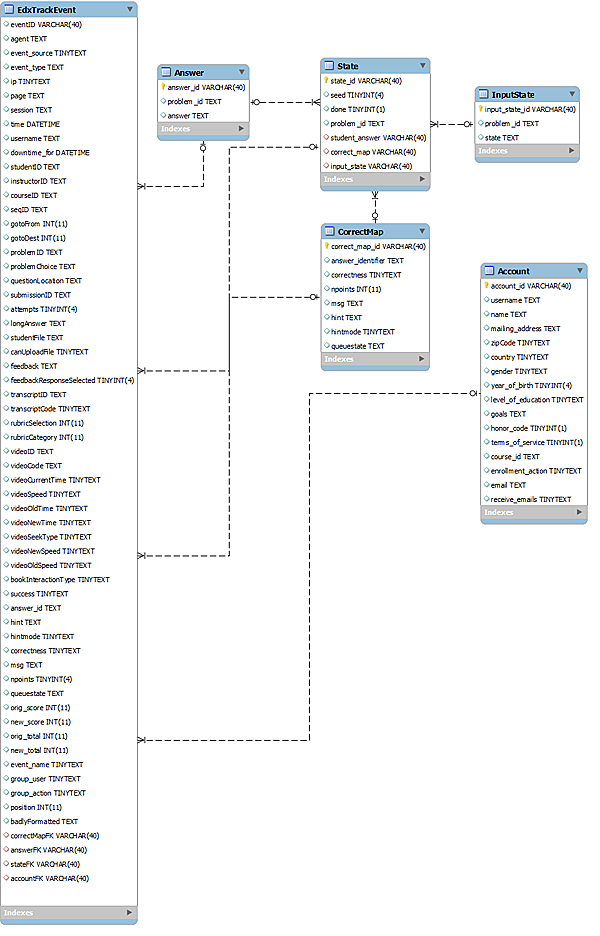
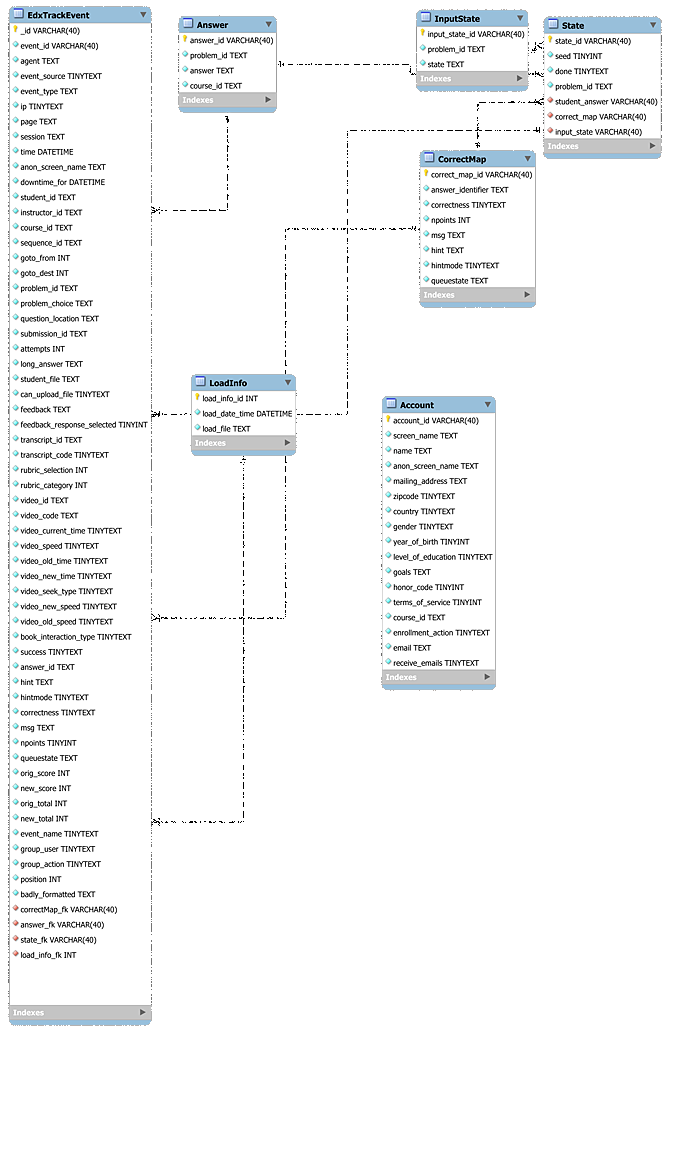
Added Edx and EdxPrivate column descriptions.

diff --git a/Datastage/index.html b/Datastage/index.html
@@ -39,7 +39,7 @@
   <li><a href="#pickUp">Picking up data and visualizations prepared
   by staff or friends</a></li>
   <li><a href="#appA">List of available data sets</a></li>
-  <li><a href="#appB">Explanation of OpenEdx data fields (to do)</a></li>
+  <li><a href="#appB">Explanation of OpenEdx data fields</a></li>
   <li><a href="#appC">How to build an ssh tunnel</a></li>
   <li><a href="https://docs.google.com/document/d/1WlWkaFkpzt9i3zGVqGYAnxK_wdklUncOnh4A0T5yeJs/edit?pli=1">Example queries</a></li>
   <li><a href="http://www.tableausoftware.com/public/gallery">Gallery
@@ -661,9 +661,266 @@ vl_2013_education</br>
 vl_2013_finance</br>
 vl_2013_venture</br>
 
-<h2 id="appB">Appendix B: Explanation of OpenEdx data fields (to do)</h2>
+<h2 id="appB">Appendix B: Explanation of OpenEdx data fields</h2>
+
+The Edx and EdxPrivate databases provide a lossless translation from
+the OpenEdx platform tracking logs to relational tables. The
+translation was constructed based on tracking logs of Stanford's
+OpenEdx classes, observed up to October 2013.
+
+Each entry in a tracking log contains information about one small
+interaction that one student undertook with the learning
+platform. Examples are the submission of a problem solution, a video
+control action, like starting a video, or seeking forward, or the
+initial creation of an account. The logs were designed to hold every
+piece of information that might need to be captured in the future. Not
+all of the log fields are currently in use. Of the many columns in the
+relational tables only some therefore need to be considered at this
+point. We describe these columns now, table by table, and in
+alphabetical order. Given the sparsity of field use, plus the fact
+that important information is replicated to the <i>EdxTrackEvent</i>
+table, researchers will likely need to query only that table, plus
+the <i>Answer</i> table. The latter is required if the actual answer
+to a problem solution submission needs to be retrieved.
+<p>
+Please also see
+the 
+<a href="http://data.edx.org/en/latest/internal_data_formats/tracking_logs.html">OpenEdx
+Tracking Log documentation</a> of the original JSON formatted
+fields. Those descriptions are authoritative.
 
 </p><center><img src="figs/edxERDiagramWeb.png"></center></br>
+The first word in the following descriptions are column names, the
+information following the name is the respective column's datatype,
+and a brief explanation of the column's semantics. Three question
+marks indicate that a column's semantics are ill understood by the
+author of this guide. In each case the lack of understanding arises
+either from a lack of documentation for a field in the original
+tracking logs, or from the author's ignorance about the greater
+context of the platform.
+
+<h3>EdxTrackEvent Table</h3>
+
+<b>_id VARCHAR(40)</b>: unique identifier.<br>
+<b>agent TEXT</b>: description of the student's browser software.<br>
+<b>anon_screen_name TEXT</b>: identifier assigned to each student to
+protect their privacy. The identifier is created by applying a hash
+function to the student's screen name. The screen name is held in a
+separate table <i>Account</i> that is located in a separate
+database, <i>EdxPrivate</i> with strict access permissions. <br>
+<b>answer_fk VARCHAR(40)</b>: foreign key to the <i>Answer</i> table
+where individual student answers to problems are stored, one answer
+submission at a time. This column is used to join
+the <i>EdxTrackEvent</i> table to the <i>Answer</i> table in queries
+that refer to both tables. <br>
+<b>answer_id TEXT</b>: unique identifier of one student's answer to
+one problem. Rarely needed.<br>
+<b>attempts INT</b>: number of attempts at a problem.<br>
+<b>badly_formatted TEXT</b>: about 0.8% of entries in the tracking
+logs are malformed, and can therefore not be mapped to the tables in
+this database. The raw text is provided in this column for reference.<br>
+<b>book_interaction_type TINYTEXT</b>: currently empty<br>
+<b>can_upload_file TINYTEXT</b>: indicates whether a student is able
+to upload a file. Rarely needed.<br>
+<b>correctMap_fk VARCHAR(40)</b>: foreign key to the <i>CorrectMap</i> table
+where information about answers to problems is stored. This
+information includes, for example, whether a hint was provided. Since
+most of the <i>CorrectMap</i> entries are not used, this column is
+also rarely used.<br>
+<b>correctness TINYTEXT</b>: empty. See <i>success</i> for the
+operative field.<br>
+<b>course_id TEXT</b>: computer readable identifier for the course
+about which a row provides information. More useful is the human
+readable course name in column <i>course_display_name</i>.<br>
+<b>downtime_for DATETIME</b>: amount of time the OpenEdx platform
+server that creates the tracking logs was turned off. When this field
+is empty, or contains 00:00:00, no downtime was detected between the
+current row and the previous row. Else the column contains the amount
+of downtime. This column is derived from the server heartbeats.<br>
+<b>event_id VARCHAR(40)</b>:identifier of an event. This column is
+ties together multiple rows that contain information about the same
+event. Translation of some original tracking log entries to a
+relational format sometimes requires that the information contained in
+those entries is spread across two or three rows. The situation arises
+when an original entry contains pieces of data that must be spread
+across three or more tables, such as the <i>EdxTrackEvent<</i> table
+the <i>CorrectMap</i> table, and the <i>Answer</i> table. In this
+example a first row is created in <i>EdxTrackEvent</i> that has its
+correctMap_fk set to reference the respective <i>Answer</i> table
+row. A second row in <i>EdxTrackEvent</i> will have its answer_fk
+column reference the <i>CorrectMap</i> table. The columns in the two 
+<i>EdxTrackEvent</i> rows that are not foreign keys are repeated.<br>
+<b>event_name TINYTEXT</b>:???<br>
+<b>event_source TINYTEXT</b>:indicates whether the event was initiated
+by a student's browser, or by the platform server.<br>
+<b>event_type TEXT</b>: indicates what happened that triggered the
+event of the current row. A long list describes
+this <a href="#eventTypeValues???">column's possible values</a>.<br>
+<b>feedback TEXT</b>: empty<br>
+<b>feedback_response_selected TINYINT</b>: empty<br>
+<b>goto_dest INT</b>: destination of navigation to a learning module<br>
+<b>goto_from INT</b>: origin of navigation to a learning module<br>
+<b>group_action TINYTEXT</b>: empty<br>
+<b>group_user TINYTEXT</b>: empty<br>
+<b>hint TEXT</b>: empty<br>
+<b>hintmode TINYTEXT</b>: empty<br>
+<b>instructor_id TEXT</b>: empty<br>
+<b>ip TINYTEXT</b>: the student's originating internet address<br>
+<b>load_info_fk VARCHAR(40)</b>: foreign key that references a row in
+<i>LoadInfo</i> table. This reference enables queries to determine the
+date at which the current row was loaded into the database. The
+purpose of this information is to enable the queries of a past
+research investigation to be repeated. New rows are continuously added
+to the database, so a query today may return different values from a
+query that produced the data for a research paper last month.<br>
+<b>long_answer TEXT</b>: empty<br>
+<b>msg TEXT</b>: empty<br>
+<b>new_score INT</b>: corrected problem score<br>
+<b>new_total INT</b>: corrected total points<br>
+<b>npoints TINYINT</b>: number of points for a problem<br>
+<b>orig_score INT</b>: original achieved score<br>
+<b>orig_total INT</b>: original number of points<br>
+<b>page TEXT</b>: URL of a page visited by a student<br>
+<b>position INT</b>: ???<br>
+<b>problem_choice TEXT</b>: ???<br>
+<b>problem_id TEXT</b>: computer readable identifier of a problem. A
+more useful column is likely the resource_display_name, which is the
+corresponding human readable name. Even that name, however, is only as
+good as what the problem set creator provided.<br>
+<b>question_location TEXT</b>: ???<br>
+<b>queuestate TEXT</b>: either empty if a problem submission was not
+queued, or a key/value pair in which the value provides the time of
+queuing.<br>
+<b>rubric_category INT</b>: ???<br>
+<b>rubric_selection INT</b>: ???<br>
+<b>sequence_id TEXT</b>: computer readable learning module identifier<br>
+<b>session TEXT</b>: computer readable identifier of a user session<br>
+<b>state_fk VARCHAR(40)</b>: foreign key to the <i>State</i>
+table. Rarely needed.<br>
+<b>student_file TEXT</b>: name of a student's uploaded file<br>
+<b>student_id TEXT</b>: a platform internal identifier of a student.<br>
+<b>submission_id TEXT</b>: ???<br>
+<b>success TINYTEXT</b>: indicates whether the solution submission to
+a problem was 'correct,' or 'not correct'.<br>
+<b>time DATETIME</b>: the date and time at which the row's event occurred<br>
+<b>transcript_code TINYTEXT</b>: ???<br>
+<b>transcript_id TEXT</b>: ???<br>
+<b>video_code TEXT</b>:  ???<br>
+<b>video_current_time TINYTEXT</b>: ???<br>
+<b>video_id TEXT</b>: computer readable identifier of a video. The
+human readable column resource_display_name is likely more informative.<br>
+<b>video_new_speed TINYTEXT</b>: target video speed for events that
+speed or slow a video's playback speed.<br>
+<b>video_new_time TINYTEXT</b>: destination play head position for
+video seek events.<br>
+<b>video_old_speed TINYTEXT</b>: the initial speed of a video at the
+outset of an event that changes video speed.<br>
+<b>video_old_time TINYTEXT</b>: initial playhead position for events
+that request video seek.<br>
+<b>video_seek_type TINYTEXT</b>: ???<br>
+<b>video_speed TINYTEXT</b>: the video speed at the time of a video
+speed information request ???
+
+<h3>Answer Table</h3>
+
+answer_id VARCHAR(40)</b>: unique key identifying this row. The key is
+used in the <i>EdxTrackEvent</i> table's <i>answer_fk</i> to reference
+a row in this table.<br>
+<b>problem_id TEXT</b>: computer readable identifier of the problem to
+which this row is the answer. To find the corresponding human readable
+name:<br>
+<pre>
+SELECT resource_display_name 
+FROM Answer, EdxTrackEvent 
+WHERE EdxTrackEvent.answer_fk = Answer.answer_id
+</pre><br>
+<b>answer TEXT</b>: text of the student's answer<br>
+<b>course_id TEXT</b>: computer readable identifier of the associated
+class. To find the human readable course name:<br>
+<pre>
+SELECT course_display_name 
+FROM Answer, EdxTrackEvent 
+WHERE EdxTrackEvent.answer_fk = Answer.answer_id
+</pre>
+
+<h3>CorrectMap Table</h3>
+<br>
+<b>correct_map_id VARCHAR(40)</b>: unique identifier of this row<br>
+<b>answer_identifier TEXT</b>: computer readable identifier of this
+answer. Note that his column does not carry the same semantics as
+the <i>Answer</i> table's <i>answer_id</i>.<br>
+<b>correctness TINYTEXT</b>: one of the values 'correct' and 'not
+correct.' This value is replicated int <i>EdxTrackEvent</i>
+table's <i>success</i> column.<br>
+<b>npoints INT</b>: number of points earned (replicated in <i>EdxTrackEvent</i> table).<br>
+<b>msg TEXT</b>: text of a message sent to the student.<br>
+<b>hint TEXT</b>: hint provided to the student (replicated in <i>EdxTrackEvent</i> table).<br>
+<b>hintmode TINYTEXT</b>: empty, 'on_request,' or 'always' (replicated
+in <i>EdxTrackEvent</i> table).<br>
+<b>queuestate TEXT</b>: empty, or a key/value pair in which the value
+is a date and time (replicated in <i>EdxTrackEvent</i> table).
+
+<h3>State Table</h3>
+<br>
+<b>state_id VARCHAR(40)</b>: unique identifier for this row.<br>
+<b>seed TINYINT</b>: problem seed<br>
+<b>done TINYTEXT</b>: ???<br>
+<b>problem_id TEXT</b>: computer readable identifier of a problem
+assignment. <br>
+<b>student_answer VARCHAR(40)</b>: computer readable identifier for a
+student's answer to a problem assignment.<br>
+<b>correct_map VARCHAR(40)</b>: reference to a <i>CorrectMap</i> row.<br>
+<b>input_state VARCHAR(40)</b>: reference to an <i>InputState</i> row.
+
+<h3>InputState Table</h3>
+<br>
+<b>input_state_id VARCHAR(40)</b>: unique identifier of this row.<br>
+<b>problem_id TEXT</b>: computer readable identifier for a problem assignment.<br>
+<b>state TEXT</b>: reference to a row in the <i>State</i> table.
+
+<h3>LoadInfo</h3>
+<br>
+<b>load_info_id INT</b>: unique identifier of this row. This
+identifier is used in the <i>EdxTrackEvent</i> table's loadInfo_fk
+column to link an <i>EdxTrackEvent</i> row to its provenance.<br>
+<b>load_date_time DATETIME</b>: the date and time when the load
+of a particular tracking log file occurred.<br>
+<b>load_file TEXT</b>: name of the loaded tracking log file.
+
+<h3>Account Table</h3>
+
+Note: this table is contained in the EdxPrivate database, because it
+contains personally identifiable information.
+<br>
+<b>account_id VARCHAR(40)</b>: unique identifier of this row.<br>
+<b>screen_name TEXT</b>: the student's chosen screen name. It is
+unique in the platform. This constraint is enforced when students
+create an account.<br>
+<b>name TEXT</b>: student's first and last name.<br>
+<b>anon_screen_name TEXT</b>: anonomization name assigned to this
+student. That is the name under which information is stored in the <i>EdxTrackEvent</i> table.<br>
+<b>mailing_address TEXT</b>: postal address. This is an optional field
+during the student's account creation process, so it is sometimes empty.<br>
+<b>zipcode TINYTEXT</b>: zip code if the postal address is provided,
+and is in the US.<br>
+<b>country TINYTEXT</b>: country extracted from the postal address.<br>
+<b>gender TINYTEXT</b>: student's gender.<br>
+<b>year_of_birth TINYINT</b>: optional during account creation
+process, so not always available.<br>
+<b>level_of_education TINYTEXT</b>: student's prior education
+(primary, secondary, etc) ???<br>
+<b>goals TEXT</b>: short, plain text description of the student's goals.<br>
+<b>honor_code TINYINT</b>: whether student agreed to the honor code.<br>
+<b>terms_of_service TINYINT</b>: whether student agreed to the terms
+of service.<br>
+<b>course_id TEXT</b>: computer readable identifier of course that the
+student signs up for.<br>
+<b>enrollment_action TINYTEXT</b>: ???<br>
+<b>email TEXT</b>: student's email address<br>
+<b>receive_emails TINYTEXT</b> whether or not student wishes to
+receive email.<br>
+
+
 
 
 <h2 id="appC">Appendix C: How to Set up an SSH Tunnel</h2>
@@ -698,7 +955,7 @@ get to the data. The command says: set up a secure connection
 (<i>ssh</i>) to machine <i>datastage.stanford.edu</i>; to applications
 on my own computer the connection is to look like a database to which
 I write via my out-port <i>5556</i>. The connection should function
-like a tunnel (<i>-L</i>). On the database on the other end, the
+Like a tunnel (<i>-L</i>). On the database on the other end, the
 commands I send should look like they were issued on <b>its</b>
 machine (<i>localhost</i> from the database's point of view), and were
 issued directly into the in-port where the database normally listens
